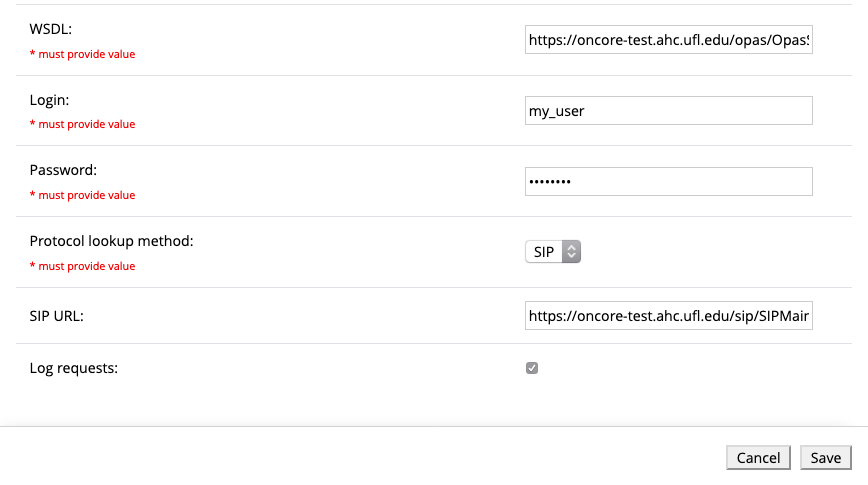
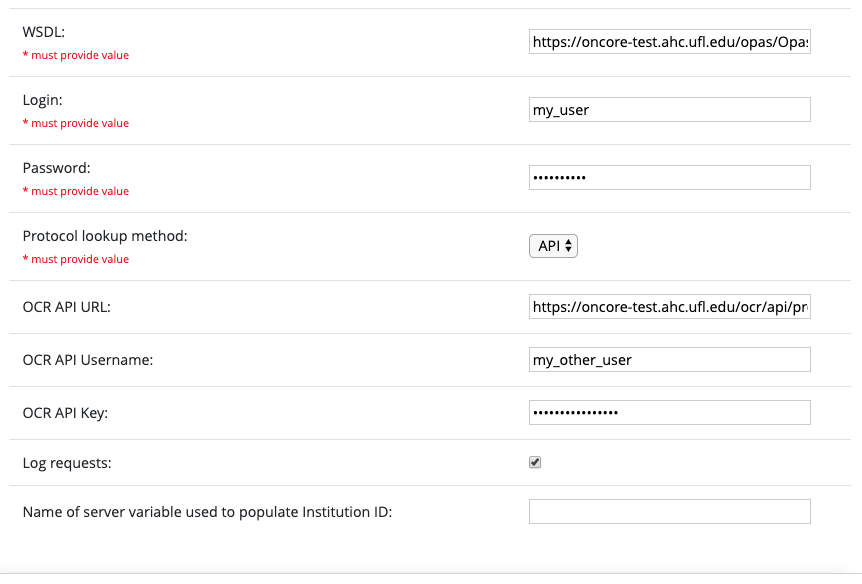
Add 'Institutional IDs' section, etc. to README

diff --git a/README.md b/README.md
@@ -1,5 +1,5 @@
 # REDCap OnCore Client
-This REDCap external module provides integration with Forte Research's OnCore. It allows REDCap project builders to associate a REDCap project with an OnCore protocol and import enrollment data into REDCap. It also allows developers to read data from OnCore via the SIP interface or the SOAP API.
+This REDCap external module provides integration with Forte Research's OnCore. It allows REDCap project builders to associate a REDCap project with an OnCore protocol and import enrollment data into REDCap. It also allows developers to read data from OnCore via the SIP interface, the SOAP API and UF's OCR API.
 
 ## Current Limitations
 
@@ -8,31 +8,47 @@ This REDCap external module provides integration with Forte Research's OnCore. I
 ## Prerequisites
 - REDCap >= 8.7.0
 - [PHP SOAP](http://php.net/manual/en/book.soap.php)
-- [REDCap Entity](https://github.com/ctsit/redcap_entity) >= 2.1.0
+- [REDCap Entity](https://github.com/ctsit/redcap_entity) >= 2.3.0
 
+The UF OCR API for OnCore is recommended as it can provide access to protocols that are not yet enrolling.  This allows configuration and testing before a protocol starts enrolling subjects.
+
+## Easy installation
+- Install the _REDCap Entity_ module from the Consortium [REDCap Repo] (https://redcap.vanderbilt.edu/consortium/modules/index.php) from the control center.
+- Install the _REDCap OnCore Client_ module from the Consortium [REDCap Repo] (https://redcap.vanderbilt.edu/consortium/modules/index.php) from the control center.
+- Go to **Control Center > External Modules**, enable REDCap Entity, and then OnCore Client. REDCap Entity will be enabled globally, but the OnCore client has to be enabled on a per-project basis after *Global Configuration* is completed.
 
 ## Manual Installation
 - Clone this repo into to `<redcap-root>/modules/redcap_oncore_client_v0.0.0`.
 - Clone [redcap_entity](https://github.com/ctsit/redcap_entity) repo into `<redcap-root>/modules/redcap_entity_v0.0.0`.
-- Go to **Control Center > External Modules**, enable REDCap Entity, and then OnCore Client. REDCap Entity will be enabled globally, but the OnCore client has to be enable on a per-project basis.
+- Go to **Control Center > External Modules**, enable REDCap Entity, and then OnCore Client. REDCap Entity will be enabled globally, but the OnCore client has to be enabled on a per-project basis after *Global Configuration* is completed.
 
 
 ## Global Configuration
-Go to **Control Center > External Modules**, click on OnCore Client's configure button, and fill the configuration form with your credentials.
+Go to **Control Center > External Modules**, click on OnCore Client's configure button, and fill the configuration form with your credentials and other details. Contact your site's OnCore team to get the URLs, usernames and passwords required to configure this module.
 
 - **WSDL**: The OnCore WSDL URL, e.g. `https://oncore-test.ahc.ufl.edu/opas/OpasService?wsdl`
 - **Login**: Your OnCore client user ID
 - **Password**: Your OnCore client password
-- **Protocol lookup method**: The method through which protocols are acquired from OnCore (SIP or API) - _one_ of these is required to associate projects with protocols
+- **Protocol lookup method**: The method through which protocols are acquired from OnCore (SIP or UF OCR API) - _one_ of these is required to associate projects with protocols
 - **SIP URL**: The URL of OnCore SIP (Study Information Portal), e.g. `https://oncore-test.ahc.ufl.edu/sip/SIPMain`. Returns **only** protocols open to enrollment
-- **OCR API URL**: The URL of OnCore API (Application Programming Interface), e.g. `https://oncore-test.ahc.ufl.edu/ocr/api/protocols`. Returns **all** protocols, requires API credentials
-  - **OCR API Username**: Your OnCore API user name
-  - **OCR API Key**: Your OnCore API key
+- **OCR API URL**: The URL of UF OCR OnCore API (Application Programming Interface), e.g. `https://oncore-test.ahc.ufl.edu/ocr/api/protocols`. Returns **all** protocols, requires UF OCR API credentials
+  - **OCR API Username**: Your UF OCR OnCore API user name
+  - **OCR API Key**: Your UF OCR OnCore API key
 - **Log requests**: Check this field to log all API requests (see Logs Page section) - this is useful for development purposes and testing
+- **Name of server variable used to populate Institution ID**: If you use an authentication mechanism that provides the institutional ID in a server environment variable, name that variable here to automatically populate a table of user names and Institution IDs.
 
 ![Config form](img/config_form.png)
 
-You will also need to provide the institution ID (e.g. an 8 digit UFID) for each user for them to access the protocol data. This is available at **Control Center > Enter User Institution IDs**. Users will _only_ be allowed to access protocol subject data if OnCore lists them as currently active staff on a protocol.
+### Institutional IDs
+
+The REDCap OnCore Client displays enrollment data only to REDCap users who are on OnCore's list of protocol staff. To do this, it reads the protocol staff list from OnCore and compares the institional ID of the logged-in REDCap user against the institional ID field in the OnCore study staff data. If there is a match, it displays the enrollees, otherwise it hides them. Note that REDCap super-users can always see the list of enrollees. 
+
+To do the comparison, REDCap needs to know the institional ID for the logged-in user. If you use an authentication mechanism that provides the institutional ID in a server environment variable, the OnCore Client can automatically write that value to the lookup tables it uses to verify access. Sites that use Shibboleth or LDAP for authentication are likely to have this functionality, but its implementation is site-specific. Whether your site provides an institutional for successfully-authenticated staff and what variable would hold that value are questions for your site's system staff. 
+
+If the institutional ID is _not_ available in an environment variable, you will need to provide that ID for each user for them to access the protocol data. This is available at **Control Center > Enter User Institution IDs**. Users will _only_ be allowed to access protocol subject data if OnCore lists them as currently active staff on a protocol.
+
+Note that the institutional ID used on your site's OnCore system is a site-specific decision. It could be the same ID as the REDCap username or some other ID unique to each staff member. Ask your OnCore team which person identifier they store in the institutional ID field. 
+
 
 ## Project level configuration
 
